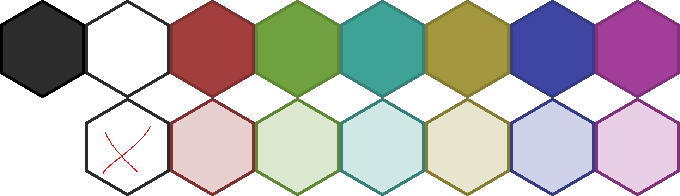
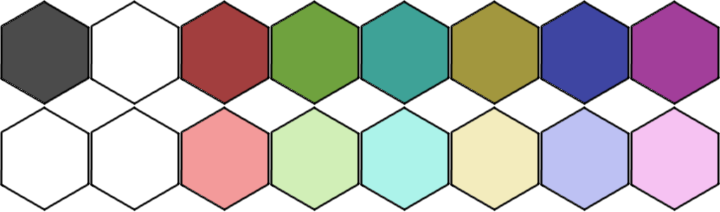
Added new levels and graphics

diff --git a/assets/data/tiles.tsx b/assets/data/tiles.tsx
@@ -1,0 +1,4 @@
+<?xml version="1.0" encoding="UTF-8"?>
+<tileset name="Tile" tilewidth="90" tileheight="106">
+ <image source="../images/Tile.png" width="720" height="212"/>
+</tileset>
